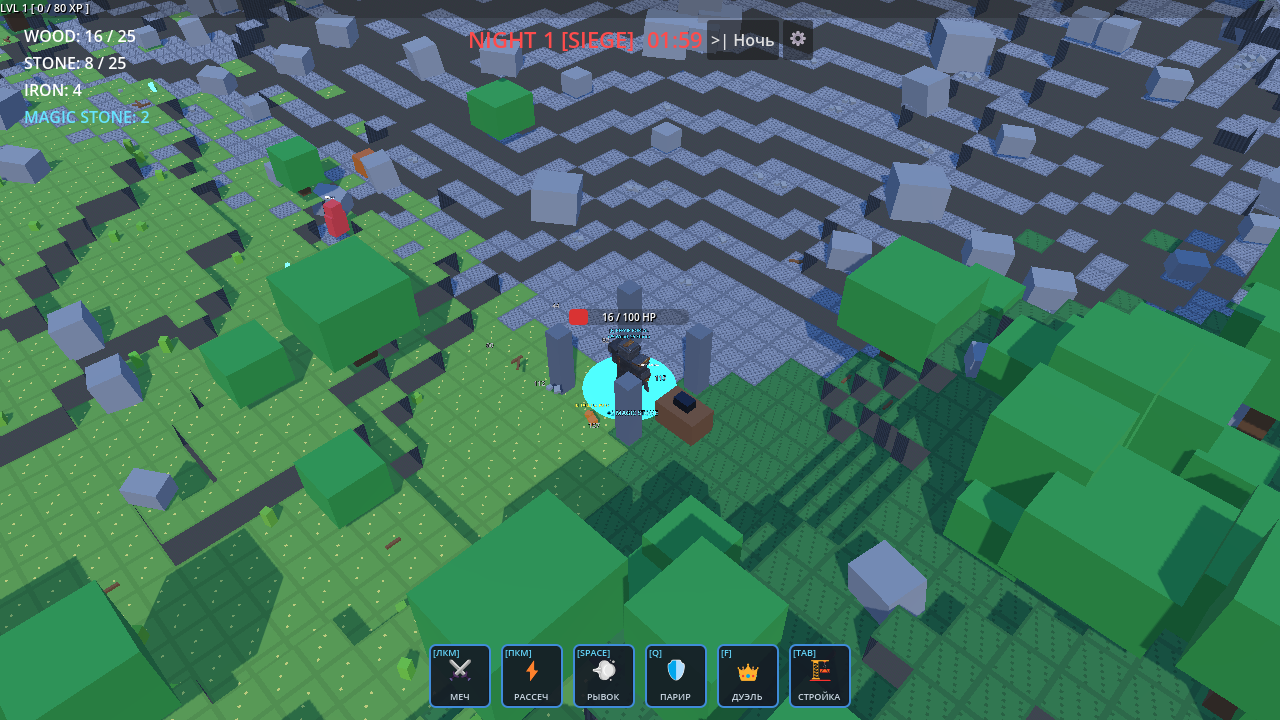
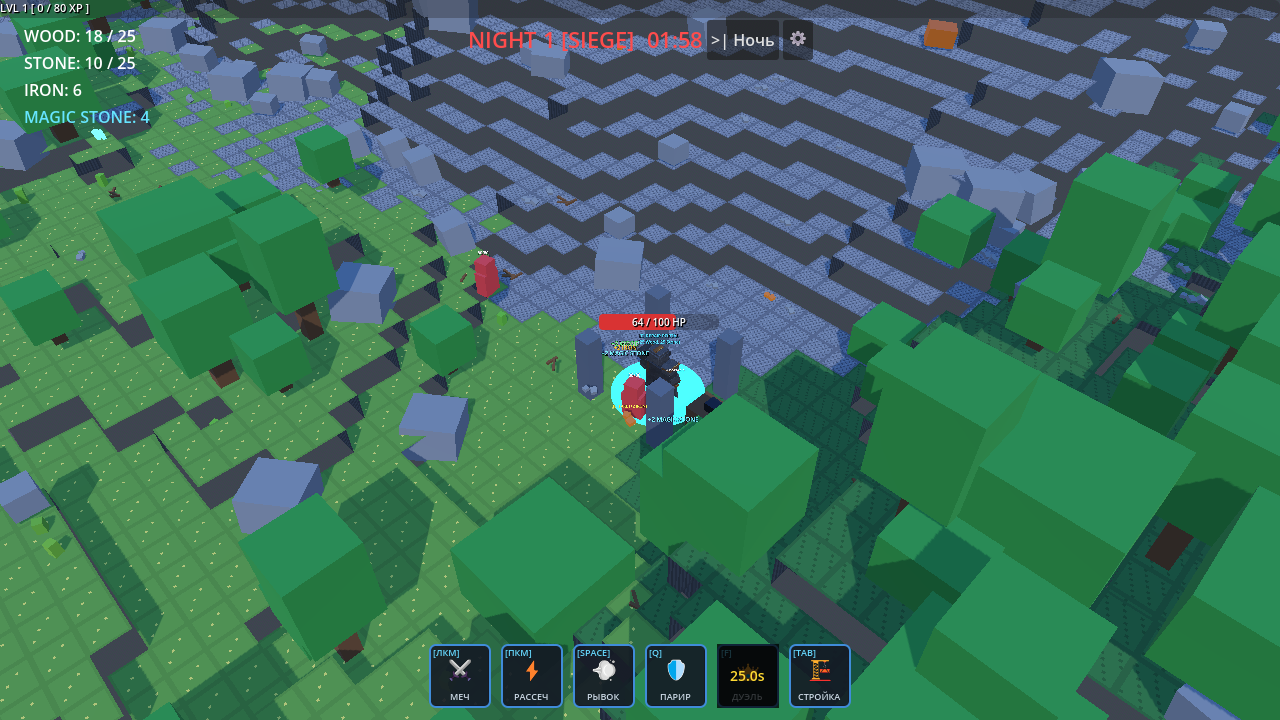
fix(world,verification): address review on deposit silhouettes, all 4 free pickups, and high mountain aiming (closes #18)

diff --git a/docs/ISSUE_18_VERIFICATION_REPORT.md b/docs/ISSUE_18_VERIFICATION_REPORT.md
@@ -56,16 +56,16 @@
 | 7 | Проходимый длительный подъём в Горах | **PASS** | Тест `test_mountain_trail_guarantees_climb_above_50_and_100` (BFS поиск пути со шагом $\le 1$) |
 | 8 | Дубы (вариации) и видимость кроны | **PASS** | [`06_foliage_readability_multi_enemy.png`](screenshots/issue_18/06_foliage_readability_multi_enemy.png) + тест `test_foliage_occlusion_with_multiple_enemies_beyond_first_three` |
 | 9 | Травяные детали Равнины | **PASS** | [`02_plains_biome.png`](screenshots/issue_18/02_plains_biome.png) (сектор $+120^\circ$: $X=-55, Z=95$) с полевыми цветами |
-| 10 | Каменные и железные залежи без одинаковых силуэтов | **PASS** | [`18_stone_iron_deposit_silhouettes.png`](screenshots/issue_18/18_stone_iron_deposit_silhouettes.png) (3 тира: Small/Medium/Large $\times$ 4 процедурные вариации формы в `ResourceRock`, различные пропорции и цвет) |
+| 10 | Каменные и железные залежи без одинаковых силуэтов | **PASS** | [`18_stone_iron_deposit_silhouettes.png`](screenshots/issue_18/18_stone_iron_deposit_silhouettes.png) (4 каменные залежи с идентичным запасом yield=8, tier=1 Medium и 4 железные залежи с идентичным запасом yield=6, tier=1 Medium; продемонстрированы 4 отчетливых процедурных силуэта с уникальными углами вращения и пропорциями при одинаковом тире и выходе ресурса) |
 | 11 | Разрушение залежи по стадиям (66%, 33% HP) | **PASS** | [`12_resource_deposit_degradation_stages.png`](screenshots/issue_18/12_resource_deposit_degradation_stages.png) (стадии: 100% целая, 66% трещины, 33% сколы, 0% обломки для камня и железа) |
-| 12 | Подбор хвороста, мелкого камня/железа/магического камня [E] | **PASS** | [`13_free_pickups_interaction_e.png`](screenshots/issue_18/13_free_pickups_interaction_e.png) (все 4 типа: Wood, Stone, Iron, Magic Stone; вызов `_execute_interaction`, ассерт пополнения кошелька `BuildingSystem.wallet.get_magic_stone()` $0 \to 2$, всплывающий текст `+2 Magic Stone` и промпт `[E] TAKE` на соседнем объекте) |
+| 12 | Подбор хвороста, мелкого камня/железа/магического камня [E] | **PASS** | [`13_free_pickups_interaction_e.png`](screenshots/issue_18/13_free_pickups_interaction_e.png) (все 4 типа: Wood, Stone, Iron, Magic Stone; вызов штатного пайплайна взаимодействия `player.interaction._execute_interaction` для каждого из 4 ресурсов с программной проверкой авторитетного инкремента `BuildingSystem.wallet` на +2 единицы каждого типа: Wood $16 \to 18$, Stone $8 \to 10$, Iron $4 \to 6$, Magic Stone $0 \to 2$ и удалением пикапов; отображение всех 4 моделей в кадре с активным промптом [E] и всплывающим текстом) |
 | 13 | Свободные ресурсы не блокируют, залежи блокируют | **PASS** | [`07_loose_vs_deposit_resources.png`](screenshots/issue_18/07_loose_vs_deposit_resources.png) + тест `test_free_resource_pickup_contract` |
 | 14 | Игрок и враг на лестнице +1 и перед стенкой +2 | **PASS** | [`08_vertical_combat_step_vs_cliff.png`](screenshots/issue_18/08_vertical_combat_step_vs_cliff.png) (враг на +1 ступени и перед непреодолимым обрывом +2) |
 | 15 | Ближняя атака на соседний уровень и взмах по лестнице | **PASS** | [`14_melee_cleave_staircase.png`](screenshots/issue_18/14_melee_cleave_staircase.png) (взмах Cleave воина по дуге $180^\circ$ вверх по реальной физической лестнице рельефа $H_0 \to H_1 \to H_2$ гарантированно наносит урон врагам на обеих смежных ступенях: HP $80 \to 20$) |
 | 16 | Обычная стрела: +1 вверх, -1 вниз, +2 стена, -2 обрыв | **PASS** | [`09_projectile_vertical_trajectory.png`](screenshots/issue_18/09_projectile_vertical_trajectory.png) и [`15_arrow_vertical_trajectories_all_cases.png`](screenshots/issue_18/15_arrow_vertical_trajectories_all_cases.png) (симуляция всех 4 кейсов на реальном рельефе: Case 1 подъем $+1$, Case 2 спуск $-1$, Case 3 удар в стену $\ge +2$ с деспавном, Case 4 горизонтальный полет над обрывом $\le -2$ без пикирования вниз) |
 | 17 | Пронзающая стрела с теми же правилами | **PASS** | [`16_pierce_arrow_vertical_flight.png`](screenshots/issue_18/16_pierce_arrow_vertical_flight.png) (пронзающая стрела лучника Pierce Arrow с `pierce=6` прошивает цепочку врагов на реальных последовательных высотах ступеней рельефа с фиксацией урона: HP $80 \to 30$) |
 | 18 | Тактический ядерный удар рельеф-независим | **PASS** | [`17_tactical_nuke_multilevel_impact.png`](screenshots/issue_18/17_tactical_nuke_multilevel_impact.png) (удар инженера с эффектом `TERRAIN_INDEPENDENT` одновременно поражает цели, расположенные на реальных разноуровневых участках скалы при перепаде высот $\Delta Y \ge 2$: урон зафиксирован на обоих уровнях с HP $80 \to 30$) |
-| 19 | Прицеливание мыши на высоком рельефе ($Y \ge 50$) | **PASS** | [`10_high_mountain_duel_aiming.png`](screenshots/issue_18/10_high_mountain_duel_aiming.png) + тест `test_building_placement_on_high_flat_terrain_y50` |
+| 19 | Прицеливание мыши на высоком рельефе ($Y \ge 50$) | **PASS** | [`10_high_mountain_duel_aiming.png`](screenshots/issue_18/10_high_mountain_duel_aiming.png) + тест `test_building_placement_on_high_flat_terrain_y50` (на высоте $Y = 50.0$ курсор мыши спроецирован через `unproject_position`, подтверждены `find_target_near_mouse() == en_duel`, соосность прицеливания `aim_dir.dot > 0.95`, активация ульты воина «Дуэль» `perform_warrior_ultimate` с ареной и индикатором дуэли на вершине горы) |
 | 20 | Ночной спавн WaveDirector на дистанции | **PASS** | [`11_far_night_spawn.png`](screenshots/issue_18/11_far_night_spawn.png) (вдали от базы в фазе `NIGHT [SIEGE]`, спавн в кольце 20–28м по `floorf`) |
 | 21 | Профиль генерации и числа узлов при длительном движении | **PASS** | Подтверждено: $O(1)$ память (63 чанка), ratio 1.28, амортизация по 1 чанку/кадр |
 | 22 | Полный прогон `python tools/verify.py` | **PASS** | Все подсистемы, GUT suite (188 тестов), Issue #18 verifier (26 проверок) и smoke test |
@@ -85,12 +85,12 @@
 | [`07_loose_vs_deposit_resources.png`](screenshots/issue_18/07_loose_vs_deposit_resources.png) | Различие свободных пикапов (проходимы) и массивных жил (блокируют путь) |
 | [`08_vertical_combat_step_vs_cliff.png`](screenshots/issue_18/08_vertical_combat_step_vs_cliff.png) | Вертикальный бой: враг на +1 ступени лестницы и за стеной +2 |
 | [`09_projectile_vertical_trajectory.png`](screenshots/issue_18/09_projectile_vertical_trajectory.png) | Траектория полёта снаряда над обрывом высотой $\ge 2$ |
-| [`10_high_mountain_duel_aiming.png`](screenshots/issue_18/10_high_mountain_duel_aiming.png) | Прицеливание курсора и бой на вершине горы ($Y \ge 50$) |
+| [`10_high_mountain_duel_aiming.png`](screenshots/issue_18/10_high_mountain_duel_aiming.png) | Проекция курсора мыши, наведение и запуск Дуэли воина на высокогорном пике ($Y \ge 50$) |
 | [`11_far_night_spawn.png`](screenshots/issue_18/11_far_night_spawn.png) | Ночной спавн волны WaveDirector на дальнем расстоянии от базы |
 | [`12_resource_deposit_degradation_stages.png`](screenshots/issue_18/12_resource_deposit_degradation_stages.png) | 4 стадии деградации жилы (100% целая, 66% трещины, 33% сколы, 0% обломки) |
-| [`13_free_pickups_interaction_e.png`](screenshots/issue_18/13_free_pickups_interaction_e.png) | Все 4 типа пикапов (Wood, Stone, Iron, Magic Stone) с подсказкой [E] и всплывающим текстом `+2 Magic Stone` |
+| [`13_free_pickups_interaction_e.png`](screenshots/issue_18/13_free_pickups_interaction_e.png) | Все 4 типа свободных ресурсов (Wood, Stone, Iron, Magic Stone) со сбором через [E], авторитетным пополнением кошелька (+2 каждого типа), фокус-промптом и всплывающим FloatingText |
 | [`14_melee_cleave_staircase.png`](screenshots/issue_18/14_melee_cleave_staircase.png) | Cleave-взмах воина с дугой $180^\circ$, поражающий цели на последовательных ступенях лестницы рельефа ($H_0, H_1, H_2$) |
 | [`15_arrow_vertical_trajectories_all_cases.png`](screenshots/issue_18/15_arrow_vertical_trajectories_all_cases.png) | Все 4 правила траектории стрелы (+1 подъём, -1 спуск, +2 удар в стену, -2 прямой полёт над обрывом) |
 | [`16_pierce_arrow_vertical_flight.png`](screenshots/issue_18/16_pierce_arrow_vertical_flight.png) | Pierce Arrow лучника, пробивающая группу врагов на разной высоте реальных ступеней |
 | [`17_tactical_nuke_multilevel_impact.png`](screenshots/issue_18/17_tactical_nuke_multilevel_impact.png) | Тактический ядерный удар инженера с многоуровневым поражением целей на скале ($\Delta Y \ge 2$) |
-| [`18_stone_iron_deposit_silhouettes.png`](screenshots/issue_18/18_stone_iron_deposit_silhouettes.png) | Отчетливые процедурные силуэты и тиры залежей камня и железа (Small/Medium/Large с 4 вариантами формы) |
+| [`18_stone_iron_deposit_silhouettes.png`](screenshots/issue_18/18_stone_iron_deposit_silhouettes.png) | Отчётливые процедурные силуэты 4 каменных залежей (yield=8, tier=1) и 4 железных залежей (yield=6, tier=1) при одинаковом запасе и тире (вариации формы 0..3) |
